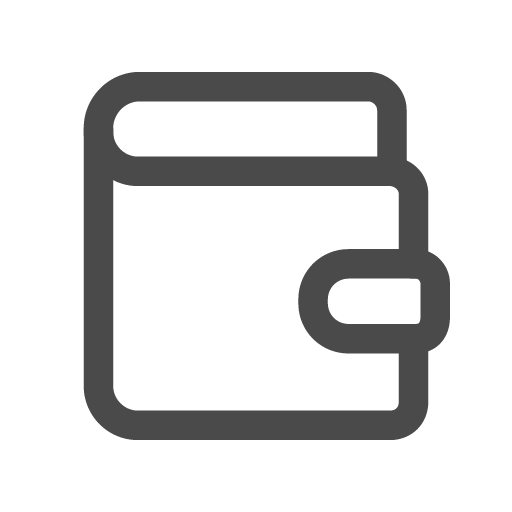
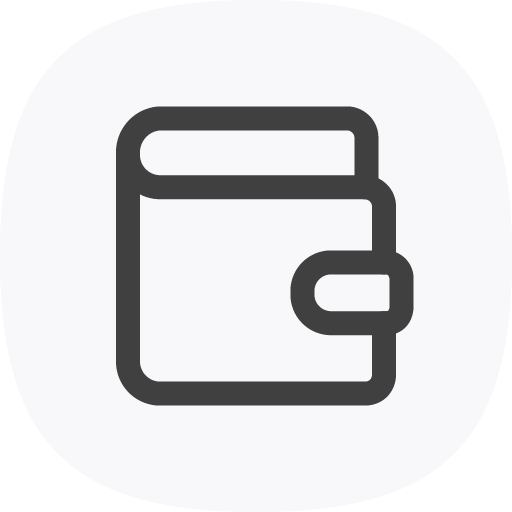
* debug; pwa

Changed region(s): [[0.1562, 0.125, 0.9062, 0.875]]

diff --git a/lib/worker/worker-bundler.ts b/lib/worker/worker-bundler.ts
@@ -120,16 +120,44 @@ fragment.debug = async ({ bundle, option }: any): Promise<any> => {
       theme_color: '#f8f8fa',
       icons: [
         {
-          src: `${option.hosted!.path}images/192w/booklet-maskable.png`,
-          sizes: '192x192',
+          src: `${option.hosted!.path}images/72w/booklet.png`,
+          sizes: '72x72',
           type: 'image/png',
-          purpose: 'any maskable',
         },
         {
-          src: `${option.hosted!.path}images/512w/booklet-maskable.png`,
+          src: `${option.hosted!.path}images/96w/booklet.png`,
+          sizes: '96x96',
+          type: 'image/png',
+        },
+        {
+          src: `${option.hosted!.path}images/128w/booklet.png`,
+          sizes: '128x128',
+          type: 'image/png',
+        },
+        {
+          src: `${option.hosted!.path}images/144w/booklet.png`,
+          sizes: '144x144',
+          type: 'image/png',
+        },
+        {
+          src: `${option.hosted!.path}images/152w/booklet.png`,
+          sizes: '152x152',
+          type: 'image/png',
+        },
+        {
+          src: `${option.hosted!.path}images/192w/booklet.png`,
+          sizes: '192x192',
+          type: 'image/png',
+        },
+        {
+          src: `${option.hosted!.path}images/384w/booklet.png`,
+          sizes: '384x384',
+          type: 'image/png',
+        },
+        {
+          src: `${option.hosted!.path}images/512w/booklet.png`,
           sizes: '512x512',
           type: 'image/png',
-          purpose: 'any maskable',
         },
       ],
     })
